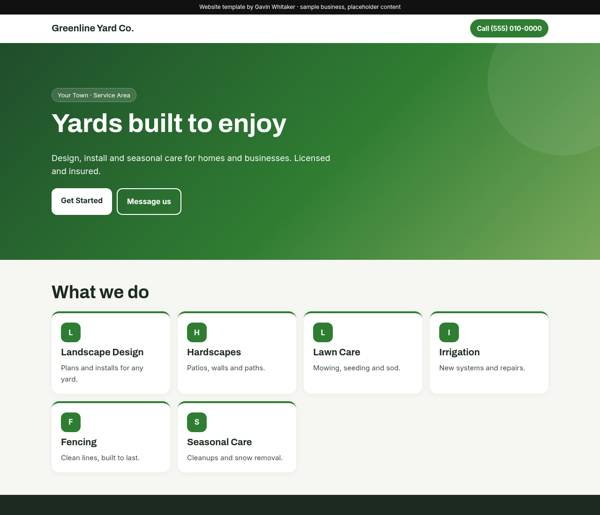
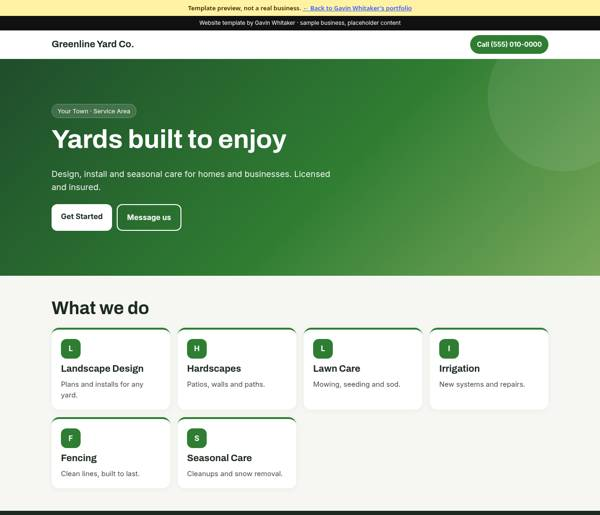
Templates: gallery photos, Google reviews section, new thumbs and descriptions

Changed region(s): [[0.0, 0.4971, 1.0, 0.9942], [0.0, 0.0, 1.0, 0.1243], [0.06, 0.1553, 0.57, 0.466]]

diff --git a/templates.html b/templates.html
@@ -3,15 +3,15 @@
 <header class="hero" style="padding-bottom:60px"><div class="wrap"><nav><a href="index.html" style="text-decoration:none"><strong class="wordmark">Gavin Whitaker<span>.</span></strong></a><div class="links"><a href="index.html#clients">Work</a><a href="templates.html">Templates</a><a href="index.html#process">Process</a><a href="index.html#contact">Contact</a></div></nav>
 <h1>Pick a starting style</h1><p>These are starting points we'll tailor to your business: your name, photos, services, colors, and wording. Open a live preview, and if one feels right, tap "I like this one" and I'll get back to you with a free quote.</p><span class="badge">Simple sites starting at $500 · Free quote</span></div></header>
 <section><div class="wrap"><div class="chips"><button class="chip on" data-f="all">All</button><button class="chip" data-f="beauty">Beauty</button><button class="chip" data-f="food">Food</button><button class="chip" data-f="retail">Retail</button><button class="chip" data-f="trades">Trades</button></div><div class="grid" id="tgrid"><article class="tcard" data-cat="trades"><a href="templates/greenline-yard-co/index.html" target="_blank" rel="noopener"><img src="templates/greenline-yard-co/thumb.jpg" alt="Greenline Yard Co. template preview" loading="lazy"></a>
-<div class="body"><span class="cat">trades</span><h3>Greenline Yard Co.</h3><p>Fresh green gradient hero, bold Archivo headings, top-bordered service cards, dark trust band and sticky call/text bar.</p>
+<div class="body"><span class="cat">trades</span><h3>Greenline Yard Co.</h3><p>Fresh, outdoorsy and dependable. Suits landscapers, lawn care, fencing and other home-service pros.</p>
 <div class="acts"><a class="btn alt sm" href="templates/greenline-yard-co/index.html" target="_blank" rel="noopener">Live preview ↗</a><a class="btn sm" href="mailto:gavin.r.whitaker@gmail.com?subject=I%20like%20the%20Greenline%20Yard%20Co.%20template">I like this one</a></div></div></article><article class="tcard" data-cat="trades"><a href="templates/ironbridge-auto-works/index.html" target="_blank" rel="noopener"><img src="templates/ironbridge-auto-works/thumb.jpg" alt="Ironbridge Auto Works template preview" loading="lazy"></a>
-<div class="body"><span class="cat">trades</span><h3>Ironbridge Auto Works</h3><p>Dark slate-to-crimson hero, condensed Oswald type, amber accents and high-contrast cards built for quick call-to-book.</p>
+<div class="body"><span class="cat">trades</span><h3>Ironbridge Auto Works</h3><p>Bold, dark and no-nonsense. Suits auto repair shops, mechanics and other service businesses that want the phone to ring.</p>
 <div class="acts"><a class="btn alt sm" href="templates/ironbridge-auto-works/index.html" target="_blank" rel="noopener">Live preview ↗</a><a class="btn sm" href="mailto:gavin.r.whitaker@gmail.com?subject=I%20like%20the%20Ironbridge%20Auto%20Works%20template">I like this one</a></div></div></article><article class="tcard" data-cat="food"><a href="templates/hearth-and-bean/index.html" target="_blank" rel="noopener"><img src="templates/hearth-and-bean/thumb.jpg" alt="Hearth &amp; Bean Coffee template preview" loading="lazy"></a>
-<div class="body"><span class="cat">food</span><h3>Hearth &amp; Bean Coffee</h3><p>Warm espresso-brown gradient, soft Fraunces serif headings on cream, cozy menu cards and an order-ahead button bar.</p>
+<div class="body"><span class="cat">food</span><h3>Hearth &amp; Bean Coffee</h3><p>Warm, cozy and welcoming. Suits coffee shops, cafes, bakeries and small eateries.</p>
 <div class="acts"><a class="btn alt sm" href="templates/hearth-and-bean/index.html" target="_blank" rel="noopener">Live preview ↗</a><a class="btn sm" href="mailto:gavin.r.whitaker@gmail.com?subject=I%20like%20the%20Hearth%20%26%20Bean%20Coffee%20template">I like this one</a></div></div></article><article class="tcard" data-cat="beauty"><a href="templates/velvet-and-vine-salon/index.html" target="_blank" rel="noopener"><img src="templates/velvet-and-vine-salon/thumb.jpg" alt="Velvet &amp; Vine Salon template preview" loading="lazy"></a>
-<div class="body"><span class="cat">beauty</span><h3>Velvet &amp; Vine Salon</h3><p>Rose-to-blush gradient hero, elegant Cormorant Garamond serif, champagne accents and a soft, editorial book-now flow.</p>
+<div class="body"><span class="cat">beauty</span><h3>Velvet &amp; Vine Salon</h3><p>Soft, elegant and polished. Suits hair salons, nail and beauty studios, spas and aestheticians.</p>
 <div class="acts"><a class="btn alt sm" href="templates/velvet-and-vine-salon/index.html" target="_blank" rel="noopener">Live preview ↗</a><a class="btn sm" href="mailto:gavin.r.whitaker@gmail.com?subject=I%20like%20the%20Velvet%20%26%20Vine%20Salon%20template">I like this one</a></div></div></article><article class="tcard" data-cat="retail"><a href="templates/northpeak-print-supply/index.html" target="_blank" rel="noopener"><img src="templates/northpeak-print-supply/thumb.jpg" alt="Northpeak Print Supply template preview" loading="lazy"></a>
-<div class="body"><span class="cat">retail</span><h3>Northpeak Print Supply</h3><p>Indigo-to-violet gradient, DM Serif Display headings with teal accents, product-style cards and a clean quote-request layout.</p>
+<div class="body"><span class="cat">retail</span><h3>Northpeak Print Supply</h3><p>Modern, colorful and confident. Suits retail shops, custom print and apparel makers, and boutiques.</p>
 <div class="acts"><a class="btn alt sm" href="templates/northpeak-print-supply/index.html" target="_blank" rel="noopener">Live preview ↗</a><a class="btn sm" href="mailto:gavin.r.whitaker@gmail.com?subject=I%20like%20the%20Northpeak%20Print%20Supply%20template">I like this one</a></div></div></article></div>
 <p class="sub" style="margin-top:30px">All templates use placeholder businesses and content. None of them are real businesses.</p></div></section>
 <footer>Gavin Whitaker · Serving northern Utah &amp; southern Idaho · <a href="index.html">Back to the portfolio</a></footer>

diff --git a/templates/velvet-and-vine-salon/index.html b/templates/velvet-and-vine-salon/index.html
@@ -36,6 +36,11 @@ footer{padding:28px 0;font-size:13px;opacity:.7;text-align:center}
 .sticky{position:fixed;left:0;right:0;bottom:0;display:grid;grid-template-columns:1fr 1fr;gap:8px;padding:10px;background:#fff;box-shadow:0 -4px 16px #0002;z-index:9}
 .sticky a{text-align:center;padding:14px;border-radius:12px;font-weight:700;text-decoration:none;background:var(--acc);color:#fff}.sticky a+a{background:var(--ink)}
 @media(min-width:900px){.sticky{display:none}body{padding-bottom:0}.hero{padding:96px 0}}
+.gal{display:grid;gap:10px;grid-template-columns:repeat(3,1fr)}.gal img{width:100%;aspect-ratio:1;object-fit:cover;border-radius:14px;display:block}
+.revtop{display:flex;align-items:center;gap:14px;margin-bottom:14px}.rbadge{background:#fff;border-radius:14px;padding:12px 16px;box-shadow:0 2px 10px #0000000d;text-align:center}
+.rbadge b{display:block;font-size:13px;letter-spacing:.06em;text-transform:uppercase;opacity:.7}.stars{color:var(--acc2);font-size:20px;letter-spacing:2px}
+.rcard{background:#fff;border-radius:14px;padding:16px 18px;margin-bottom:10px;box-shadow:0 2px 10px #0000000a;border-left:4px solid var(--acc)}
+.rcard .stars{font-size:15px}.rcard p{margin:6px 0 0;font-size:14px;opacity:.6;font-style:italic}
 </style></head>
 <body><div class="gw-note" style="background:#fff3a3;color:#3a2f00;font:600 13px/1.4 system-ui,sans-serif;text-align:center;padding:8px 12px">Template preview, not a real business. <a href="https://gavin-whitaker.github.io/templates.html" style="color:#3b5bfd">← Back to Gavin Whitaker's portfolio</a></div>
 <div class="mock">Website template by Gavin Whitaker &middot; sample business, placeholder content</div>
@@ -44,7 +49,7 @@ footer{padding:28px 0;font-size:13px;opacity:.7;text-align:center}
 <div class="btns"><a class="btn" href="#contact">Get Started</a><a class="btn alt" href="#contact">Message us</a></div></div></div>
 <section><div class="wrap"><h2>What we do</h2><div class="grid"><div class="card"><div class="ic">C</div><h3>Cuts &amp; Styling</h3><p>Precision cuts for every look.</p></div><div class="card"><div class="ic">C</div><h3>Color</h3><p>Balayage, highlights and gloss.</p></div><div class="card"><div class="ic">E</div><h3>Extensions</h3><p>Natural volume and length.</p></div><div class="card"><div class="ic">T</div><h3>Treatments</h3><p>Repair and shine.</p></div><div class="card"><div class="ic">B</div><h3>Brows &amp; Lashes</h3><p>Finishing touches.</p></div><div class="card"><div class="ic">E</div><h3>Events</h3><p>Bridal and special occasions.</p></div></div></div></section>
 <section class="trust"><div class="wrap"><h2>Why customers choose us</h2><ul><li>Online booking</li><li>Experienced stylists</li><li>Premium products</li><li>Gift cards available</li></ul></div></section>
-<section><div class="wrap two"><div><h2>What customers say</h2><div class="ph">PLACEHOLDER &middot; Customer reviews</div></div><div><h2>Gallery</h2><div class="ph">PLACEHOLDER &middot; Photo gallery</div></div></div></section>
+<section><div class="wrap two"><div><h2>What customers say</h2><div class="revtop"><div class="rbadge"><b>Google rating</b><span class="stars">★★★★★</span></div><div>Your Google reviews here</div></div><div class="rcard"><span class="stars">★★★★★</span><p>Your customers’ reviews appear here</p></div><div class="rcard"><span class="stars">★★★★★</span><p>Your customers’ reviews appear here</p></div></div><div><h2>Gallery</h2><div class="gal"><img src="photo-1.jpg" alt="Comfortable backwash chairs with sinks near potted plant placed in contemporary beauty salon with bright illumination and abundance of cosmetology products" loading="lazy"><img src="photo-2.jpg" alt="Flatlay of hairstyling tools including a hairdryer, brush, comb, and scrunchies on white fur" loading="lazy"><img src="photo-3.jpg" alt="Bright and well-equipped hair salon with modern chairs and styling tools" loading="lazy"></div></div></div></section>
 <section id="contact"><div class="wrap two contact"><div><h2>Visit or call</h2><p>123 Main Street, Your Town</p><p><a href="#contact">(555) 010-0000</a><br><a href="#contact">hello@example.com</a></p><p class="area">Service area: list the towns you serve here.</p></div><div><h2>Hours</h2><table><tr><td>Monday – Friday</td><td>9:00am – 5:00pm</td></tr><tr><td>Saturday</td><td>10:00am – 2:00pm</td></tr></table></div></div></section>
 <footer>&copy; Velvet &amp; Vine Salon &middot; Sample template<br>Concept designed by Gavin Whitaker &middot; <a href="mailto:gavin.r.whitaker@gmail.com">gavin.r.whitaker@gmail.com</a> &middot; <a href="https://gavin-whitaker.github.io">Portfolio</a></footer>
 <div class="sticky"><a href="#contact">Call</a><a href="#contact">Message</a></div>

diff --git a/templates/greenline-yard-co/index.html b/templates/greenline-yard-co/index.html
@@ -36,6 +36,11 @@ footer{padding:28px 0;font-size:13px;opacity:.7;text-align:center}
 .sticky{position:fixed;left:0;right:0;bottom:0;display:grid;grid-template-columns:1fr 1fr;gap:8px;padding:10px;background:#fff;box-shadow:0 -4px 16px #0002;z-index:9}
 .sticky a{text-align:center;padding:14px;border-radius:12px;font-weight:700;text-decoration:none;background:var(--acc);color:#fff}.sticky a+a{background:var(--ink)}
 @media(min-width:900px){.sticky{display:none}body{padding-bottom:0}.hero{padding:96px 0}}
+.gal{display:grid;gap:10px;grid-template-columns:repeat(3,1fr)}.gal img{width:100%;aspect-ratio:1;object-fit:cover;border-radius:14px;display:block}
+.revtop{display:flex;align-items:center;gap:14px;margin-bottom:14px}.rbadge{background:#fff;border-radius:14px;padding:12px 16px;box-shadow:0 2px 10px #0000000d;text-align:center}
+.rbadge b{display:block;font-size:13px;letter-spacing:.06em;text-transform:uppercase;opacity:.7}.stars{color:var(--acc2);font-size:20px;letter-spacing:2px}
+.rcard{background:#fff;border-radius:14px;padding:16px 18px;margin-bottom:10px;box-shadow:0 2px 10px #0000000a;border-left:4px solid var(--acc)}
+.rcard .stars{font-size:15px}.rcard p{margin:6px 0 0;font-size:14px;opacity:.6;font-style:italic}
 </style></head>
 <body><div class="gw-note" style="background:#fff3a3;color:#3a2f00;font:600 13px/1.4 system-ui,sans-serif;text-align:center;padding:8px 12px">Template preview, not a real business. <a href="https://gavin-whitaker.github.io/templates.html" style="color:#3b5bfd">← Back to Gavin Whitaker's portfolio</a></div>
 <div class="mock">Website template by Gavin Whitaker &middot; sample business, placeholder content</div>
@@ -44,7 +49,7 @@ footer{padding:28px 0;font-size:13px;opacity:.7;text-align:center}
 <div class="btns"><a class="btn" href="#contact">Get Started</a><a class="btn alt" href="#contact">Message us</a></div></div></div>
 <section><div class="wrap"><h2>What we do</h2><div class="grid"><div class="card"><div class="ic">L</div><h3>Landscape Design</h3><p>Plans and installs for any yard.</p></div><div class="card"><div class="ic">H</div><h3>Hardscapes</h3><p>Patios, walls and paths.</p></div><div class="card"><div class="ic">L</div><h3>Lawn Care</h3><p>Mowing, seeding and sod.</p></div><div class="card"><div class="ic">I</div><h3>Irrigation</h3><p>New systems and repairs.</p></div><div class="card"><div class="ic">F</div><h3>Fencing</h3><p>Clean lines, built to last.</p></div><div class="card"><div class="ic">S</div><h3>Seasonal Care</h3><p>Cleanups and snow removal.</p></div></div></div></section>
 <section class="trust"><div class="wrap"><h2>Why customers choose us</h2><ul><li>Licensed &amp; insured</li><li>Residential &amp; commercial</li><li>Free written quotes</li><li>Satisfaction guaranteed</li></ul></div></section>
-<section><div class="wrap two"><div><h2>What customers say</h2><div class="ph">PLACEHOLDER &middot; Customer reviews</div></div><div><h2>Gallery</h2><div class="ph">PLACEHOLDER &middot; Photo gallery</div></div></div></section>
+<section><div class="wrap two"><div><h2>What customers say</h2><div class="revtop"><div class="rbadge"><b>Google rating</b><span class="stars">★★★★★</span></div><div>Your Google reviews here</div></div><div class="rcard"><span class="stars">★★★★★</span><p>Your customers’ reviews appear here</p></div><div class="rcard"><span class="stars">★★★★★</span><p>Your customers’ reviews appear here</p></div></div><div><h2>Gallery</h2><div class="gal"><img src="photo-1.jpg" alt="Stylish modern house exterior with a lush green yard and outdoor seating area" loading="lazy"><img src="photo-2.jpg" alt="Close-up of a garden sprinkler watering a lush green lawn with sunlight creating sparkling water droplets" loading="lazy"><img src="photo-3.jpg" alt="Close-up view of interlocking concrete pavement blocks with grass growing between them, Fès, Morocco" loading="lazy"></div></div></div></section>
 <section id="contact"><div class="wrap two contact"><div><h2>Visit or call</h2><p>123 Main Street, Your Town</p><p><a href="#contact">(555) 010-0000</a><br><a href="#contact">hello@example.com</a></p><p class="area">Service area: list the towns you serve here.</p></div><div><h2>Hours</h2><table><tr><td>Monday – Friday</td><td>9:00am – 5:00pm</td></tr><tr><td>Saturday</td><td>10:00am – 2:00pm</td></tr></table></div></div></section>
 <footer>&copy; Greenline Yard Co. &middot; Sample template<br>Concept designed by Gavin Whitaker &middot; <a href="mailto:gavin.r.whitaker@gmail.com">gavin.r.whitaker@gmail.com</a> &middot; <a href="https://gavin-whitaker.github.io">Portfolio</a></footer>
 <div class="sticky"><a href="#contact">Call</a><a href="#contact">Message</a></div>

diff --git a/templates/ironbridge-auto-works/index.html b/templates/ironbridge-auto-works/index.html
@@ -36,6 +36,11 @@ footer{padding:28px 0;font-size:13px;opacity:.7;text-align:center}
 .sticky{position:fixed;left:0;right:0;bottom:0;display:grid;grid-template-columns:1fr 1fr;gap:8px;padding:10px;background:#fff;box-shadow:0 -4px 16px #0002;z-index:9}
 .sticky a{text-align:center;padding:14px;border-radius:12px;font-weight:700;text-decoration:none;background:var(--acc);color:#fff}.sticky a+a{background:var(--ink)}
 @media(min-width:900px){.sticky{display:none}body{padding-bottom:0}.hero{padding:96px 0}}
+.gal{display:grid;gap:10px;grid-template-columns:repeat(3,1fr)}.gal img{width:100%;aspect-ratio:1;object-fit:cover;border-radius:14px;display:block}
+.revtop{display:flex;align-items:center;gap:14px;margin-bottom:14px}.rbadge{background:#fff;border-radius:14px;padding:12px 16px;box-shadow:0 2px 10px #0000000d;text-align:center}
+.rbadge b{display:block;font-size:13px;letter-spacing:.06em;text-transform:uppercase;opacity:.7}.stars{color:var(--acc2);font-size:20px;letter-spacing:2px}
+.rcard{background:#fff;border-radius:14px;padding:16px 18px;margin-bottom:10px;box-shadow:0 2px 10px #0000000a;border-left:4px solid var(--acc)}
+.rcard .stars{font-size:15px}.rcard p{margin:6px 0 0;font-size:14px;opacity:.6;font-style:italic}
 </style></head>
 <body><div class="gw-note" style="background:#fff3a3;color:#3a2f00;font:600 13px/1.4 system-ui,sans-serif;text-align:center;padding:8px 12px">Template preview, not a real business. <a href="https://gavin-whitaker.github.io/templates.html" style="color:#3b5bfd">← Back to Gavin Whitaker's portfolio</a></div>
 <div class="mock">Website template by Gavin Whitaker &middot; sample business, placeholder content</div>
@@ -44,7 +49,7 @@ footer{padding:28px 0;font-size:13px;opacity:.7;text-align:center}
 <div class="btns"><a class="btn" href="#contact">Get Started</a><a class="btn alt" href="#contact">Message us</a></div></div></div>
 <section><div class="wrap"><h2>What we do</h2><div class="grid"><div class="card"><div class="ic">D</div><h3>Diagnostics</h3><p>Find the problem fast.</p></div><div class="card"><div class="ic">B</div><h3>Brakes</h3><p>Pads, rotors and fluid.</p></div><div class="card"><div class="ic">O</div><h3>Oil &amp; Maintenance</h3><p>Keep it running smooth.</p></div><div class="card"><div class="ic">E</div><h3>Engine Repair</h3><p>From tune-ups to rebuilds.</p></div><div class="card"><div class="ic">S</div><h3>Suspension</h3><p>Smooth, safe handling.</p></div><div class="card"><div class="ic">A</div><h3>A/C &amp; Heating</h3><p>Comfort in every season.</p></div></div></div></section>
 <section class="trust"><div class="wrap"><h2>Why customers choose us</h2><ul><li>Upfront estimates</li><li>Warranty on parts &amp; labor</li><li>All makes &amp; models</li><li>Same-day service when possible</li></ul></div></section>
-<section><div class="wrap two"><div><h2>What customers say</h2><div class="ph">PLACEHOLDER &middot; Customer reviews</div></div><div><h2>Gallery</h2><div class="ph">PLACEHOLDER &middot; Photo gallery</div></div></div></section>
+<section><div class="wrap two"><div><h2>What customers say</h2><div class="revtop"><div class="rbadge"><b>Google rating</b><span class="stars">★★★★★</span></div><div>Your Google reviews here</div></div><div class="rcard"><span class="stars">★★★★★</span><p>Your customers’ reviews appear here</p></div><div class="rcard"><span class="stars">★★★★★</span><p>Your customers’ reviews appear here</p></div></div><div><h2>Gallery</h2><div class="gal"><img src="photo-1.jpg" alt="A neatly arranged set of automotive tools hanging on a workshop pegboard, emphasizing organization and efficiency" loading="lazy"><img src="photo-2.jpg" alt="Steel automobile disk brake without wheel for car service and repair concept" loading="lazy"><img src="photo-3.jpg" alt="Detailed view of car engine components with focus on parts and machinery" loading="lazy"></div></div></div></section>
 <section id="contact"><div class="wrap two contact"><div><h2>Visit or call</h2><p>123 Main Street, Your Town</p><p><a href="#contact">(555) 010-0000</a><br><a href="#contact">hello@example.com</a></p><p class="area">Service area: list the towns you serve here.</p></div><div><h2>Hours</h2><table><tr><td>Monday – Friday</td><td>9:00am – 5:00pm</td></tr><tr><td>Saturday</td><td>10:00am – 2:00pm</td></tr></table></div></div></section>
 <footer>&copy; Ironbridge Auto Works &middot; Sample template<br>Concept designed by Gavin Whitaker &middot; <a href="mailto:gavin.r.whitaker@gmail.com">gavin.r.whitaker@gmail.com</a> &middot; <a href="https://gavin-whitaker.github.io">Portfolio</a></footer>
 <div class="sticky"><a href="#contact">Call</a><a href="#contact">Message</a></div>

diff --git a/templates/hearth-and-bean/index.html b/templates/hearth-and-bean/index.html
@@ -36,6 +36,11 @@ footer{padding:28px 0;font-size:13px;opacity:.7;text-align:center}
 .sticky{position:fixed;left:0;right:0;bottom:0;display:grid;grid-template-columns:1fr 1fr;gap:8px;padding:10px;background:#fff;box-shadow:0 -4px 16px #0002;z-index:9}
 .sticky a{text-align:center;padding:14px;border-radius:12px;font-weight:700;text-decoration:none;background:var(--acc);color:#fff}.sticky a+a{background:var(--ink)}
 @media(min-width:900px){.sticky{display:none}body{padding-bottom:0}.hero{padding:96px 0}}
+.gal{display:grid;gap:10px;grid-template-columns:repeat(3,1fr)}.gal img{width:100%;aspect-ratio:1;object-fit:cover;border-radius:14px;display:block}
+.revtop{display:flex;align-items:center;gap:14px;margin-bottom:14px}.rbadge{background:#fff;border-radius:14px;padding:12px 16px;box-shadow:0 2px 10px #0000000d;text-align:center}
+.rbadge b{display:block;font-size:13px;letter-spacing:.06em;text-transform:uppercase;opacity:.7}.stars{color:var(--acc2);font-size:20px;letter-spacing:2px}
+.rcard{background:#fff;border-radius:14px;padding:16px 18px;margin-bottom:10px;box-shadow:0 2px 10px #0000000a;border-left:4px solid var(--acc)}
+.rcard .stars{font-size:15px}.rcard p{margin:6px 0 0;font-size:14px;opacity:.6;font-style:italic}
 </style></head>
 <body><div class="gw-note" style="background:#fff3a3;color:#3a2f00;font:600 13px/1.4 system-ui,sans-serif;text-align:center;padding:8px 12px">Template preview, not a real business. <a href="https://gavin-whitaker.github.io/templates.html" style="color:#3b5bfd">← Back to Gavin Whitaker's portfolio</a></div>
 <div class="mock">Website template by Gavin Whitaker &middot; sample business, placeholder content</div>
@@ -44,7 +49,7 @@ footer{padding:28px 0;font-size:13px;opacity:.7;text-align:center}
 <div class="btns"><a class="btn" href="#contact">Get Started</a><a class="btn alt" href="#contact">Message us</a></div></div></div>
 <section><div class="wrap"><h2>What we do</h2><div class="grid"><div class="card"><div class="ic">E</div><h3>Espresso Bar</h3><p>Lattes, mochas and more.</p></div><div class="card"><div class="ic">D</div><h3>Drip &amp; Cold Brew</h3><p>Brewed fresh all day.</p></div><div class="card"><div class="ic">T</div><h3>Tea &amp; Chai</h3><p>Hot or iced.</p></div><div class="card"><div class="ic">P</div><h3>Pastries</h3><p>Baked fresh each morning.</p></div><div class="card"><div class="ic">B</div><h3>Breakfast</h3><p>Quick bites to go.</p></div><div class="card"><div class="ic">C</div><h3>Catering</h3><p>Coffee for your next event.</p></div></div></div></section>
 <section class="trust"><div class="wrap"><h2>Why customers choose us</h2><ul><li>Locally roasted beans</li><li>Free Wi-Fi</li><li>Order-ahead pickup</li><li>Dairy-free options</li></ul></div></section>
-<section><div class="wrap two"><div><h2>What customers say</h2><div class="ph">PLACEHOLDER &middot; Customer reviews</div></div><div><h2>Gallery</h2><div class="ph">PLACEHOLDER &middot; Photo gallery</div></div></div></section>
+<section><div class="wrap two"><div><h2>What customers say</h2><div class="revtop"><div class="rbadge"><b>Google rating</b><span class="stars">★★★★★</span></div><div>Your Google reviews here</div></div><div class="rcard"><span class="stars">★★★★★</span><p>Your customers’ reviews appear here</p></div><div class="rcard"><span class="stars">★★★★★</span><p>Your customers’ reviews appear here</p></div></div><div><h2>Gallery</h2><div class="gal"><img src="photo-1.jpg" alt="A beautifully crafted cappuccino with intricate latte art, viewed from above on a wooden table" loading="lazy"><img src="photo-2.jpg" alt="A close-up of roasted coffee beans scattered on a dark surface, highlighting their rich texture and color" loading="lazy"><img src="photo-3.jpg" alt="Delicious assortment of croissants, muffins, and pastries in a bakery display case" loading="lazy"></div></div></div></section>
 <section id="contact"><div class="wrap two contact"><div><h2>Visit or call</h2><p>123 Main Street, Your Town</p><p><a href="#contact">(555) 010-0000</a><br><a href="#contact">hello@example.com</a></p><p class="area">Service area: list the towns you serve here.</p></div><div><h2>Hours</h2><table><tr><td>Monday – Friday</td><td>9:00am – 5:00pm</td></tr><tr><td>Saturday</td><td>10:00am – 2:00pm</td></tr></table></div></div></section>
 <footer>&copy; Hearth &amp; Bean Coffee &middot; Sample template<br>Concept designed by Gavin Whitaker &middot; <a href="mailto:gavin.r.whitaker@gmail.com">gavin.r.whitaker@gmail.com</a> &middot; <a href="https://gavin-whitaker.github.io">Portfolio</a></footer>
 <div class="sticky"><a href="#contact">Call</a><a href="#contact">Message</a></div>

diff --git a/templates/northpeak-print-supply/index.html b/templates/northpeak-print-supply/index.html
@@ -36,6 +36,11 @@ footer{padding:28px 0;font-size:13px;opacity:.7;text-align:center}
 .sticky{position:fixed;left:0;right:0;bottom:0;display:grid;grid-template-columns:1fr 1fr;gap:8px;padding:10px;background:#fff;box-shadow:0 -4px 16px #0002;z-index:9}
 .sticky a{text-align:center;padding:14px;border-radius:12px;font-weight:700;text-decoration:none;background:var(--acc);color:#fff}.sticky a+a{background:var(--ink)}
 @media(min-width:900px){.sticky{display:none}body{padding-bottom:0}.hero{padding:96px 0}}
+.gal{display:grid;gap:10px;grid-template-columns:repeat(3,1fr)}.gal img{width:100%;aspect-ratio:1;object-fit:cover;border-radius:14px;display:block}
+.revtop{display:flex;align-items:center;gap:14px;margin-bottom:14px}.rbadge{background:#fff;border-radius:14px;padding:12px 16px;box-shadow:0 2px 10px #0000000d;text-align:center}
+.rbadge b{display:block;font-size:13px;letter-spacing:.06em;text-transform:uppercase;opacity:.7}.stars{color:var(--acc2);font-size:20px;letter-spacing:2px}
+.rcard{background:#fff;border-radius:14px;padding:16px 18px;margin-bottom:10px;box-shadow:0 2px 10px #0000000a;border-left:4px solid var(--acc)}
+.rcard .stars{font-size:15px}.rcard p{margin:6px 0 0;font-size:14px;opacity:.6;font-style:italic}
 </style></head>
 <body><div class="gw-note" style="background:#fff3a3;color:#3a2f00;font:600 13px/1.4 system-ui,sans-serif;text-align:center;padding:8px 12px">Template preview, not a real business. <a href="https://gavin-whitaker.github.io/templates.html" style="color:#3b5bfd">← Back to Gavin Whitaker's portfolio</a></div>
 <div class="mock">Website template by Gavin Whitaker &middot; sample business, placeholder content</div>
@@ -44,7 +49,7 @@ footer{padding:28px 0;font-size:13px;opacity:.7;text-align:center}
 <div class="btns"><a class="btn" href="#contact">Get Started</a><a class="btn alt" href="#contact">Message us</a></div></div></div>
 <section><div class="wrap"><h2>What we do</h2><div class="grid"><div class="card"><div class="ic">S</div><h3>Screen Printing</h3><p>Bold prints in bulk.</p></div><div class="card"><div class="ic">E</div><h3>Embroidery</h3><p>Polished logos on hats and polos.</p></div><div class="card"><div class="ic">T</div><h3>Team Apparel</h3><p>Uniforms and fan gear.</p></div><div class="card"><div class="ic">P</div><h3>Promo Products</h3><p>Mugs, bags and more.</p></div><div class="card"><div class="ic">D</div><h3>Design Help</h3><p>Artwork from idea to proof.</p></div><div class="card"><div class="ic">R</div><h3>Rush Orders</h3><p>Fast turnaround when you need it.</p></div></div></div></section>
 <section class="trust"><div class="wrap"><h2>Why customers choose us</h2><ul><li>No-minimum options</li><li>Free design proofs</li><li>Bulk pricing</li><li>Quality guaranteed</li></ul></div></section>
-<section><div class="wrap two"><div><h2>What customers say</h2><div class="ph">PLACEHOLDER &middot; Customer reviews</div></div><div><h2>Gallery</h2><div class="ph">PLACEHOLDER &middot; Photo gallery</div></div></div></section>
+<section><div class="wrap two"><div><h2>What customers say</h2><div class="revtop"><div class="rbadge"><b>Google rating</b><span class="stars">★★★★★</span></div><div>Your Google reviews here</div></div><div class="rcard"><span class="stars">★★★★★</span><p>Your customers’ reviews appear here</p></div><div class="rcard"><span class="stars">★★★★★</span><p>Your customers’ reviews appear here</p></div></div><div><h2>Gallery</h2><div class="gal"><img src="photo-1.jpg" alt="Detailed view of a screen printing setup with a wooden squeegee in Luzern, Switzerland" loading="lazy"><img src="photo-2.jpg" alt="Two folded t-shirts in black and mint with cotton flowers on light background" loading="lazy"><img src="photo-3.jpg" alt="Detailed view of embroidery machines used in a textile workshop in Apucarana, Brazil" loading="lazy"></div></div></div></section>
 <section id="contact"><div class="wrap two contact"><div><h2>Visit or call</h2><p>123 Main Street, Your Town</p><p><a href="#contact">(555) 010-0000</a><br><a href="#contact">hello@example.com</a></p><p class="area">Service area: list the towns you serve here.</p></div><div><h2>Hours</h2><table><tr><td>Monday – Friday</td><td>9:00am – 5:00pm</td></tr><tr><td>Saturday</td><td>10:00am – 2:00pm</td></tr></table></div></div></section>
 <footer>&copy; Northpeak Print Supply &middot; Sample template<br>Concept designed by Gavin Whitaker &middot; <a href="mailto:gavin.r.whitaker@gmail.com">gavin.r.whitaker@gmail.com</a> &middot; <a href="https://gavin-whitaker.github.io">Portfolio</a></footer>
 <div class="sticky"><a href="#contact">Call</a><a href="#contact">Message</a></div>

diff --git a/templates/northpeak-print-supply/CREDITS.md b/templates/northpeak-print-supply/CREDITS.md
@@ -1,0 +1,8 @@
+# Photo credits
+
+All photos from Pexels, free to use under the Pexels License (https://www.pexels.com/license/). Resized/compressed for web.
+
+- `photo-1.jpg`: "A Wood Plank Clamped on a Steel Equipment" by @wendelinjacober (https://www.pexels.com/@wendelinjacober/) on Pexels. Source: https://www.pexels.com/photo/a-wood-plank-clamped-on-a-steel-equipment-1509308/
+- `photo-2.jpg`: "Minimalist Flat Lay of Cotton T-Shirts and Cotton Flowers" by @dayong-tien-681073045 (https://www.pexels.com/@dayong-tien-681073045/) on Pexels. Source: https://www.pexels.com/photo/minimalist-flat-lay-of-cotton-t-shirts-and-cotton-flowers-34156907/
+- `photo-3.jpg`: "Industrial Embroidery Machines in Textile Workshop" by @gaion (https://www.pexels.com/@gaion/) on Pexels. Source: https://www.pexels.com/photo/industrial-embroidery-machines-in-textile-workshop-32641546/
+- Equipment brand logos in photo-3.jpg were blurred.

diff --git a/templates/velvet-and-vine-salon/CREDITS.md b/templates/velvet-and-vine-salon/CREDITS.md
@@ -1,0 +1,7 @@
+# Photo credits
+
+All photos from Pexels, free to use under the Pexels License (https://www.pexels.com/license/). Resized/compressed for web.
+
+- `photo-1.jpg`: "Backwash chairs in modern beauty salon" by @artbovich (https://www.pexels.com/@artbovich/) on Pexels. Source: https://www.pexels.com/photo/backwash-chairs-in-modern-beauty-salon-7195805/
+- `photo-2.jpg`: "Grey Hair Blower Near Pink Hair Combs and Scrunchies" by @element5 (https://www.pexels.com/@element5/) on Pexels. Source: https://www.pexels.com/photo/grey-hair-blower-near-pink-hair-combs-and-scrunchies-973402/
+- `photo-3.jpg`: "Black Leather Barber Chair in Front of Mirror" by @cottonbro (https://www.pexels.com/@cottonbro/) on Pexels. Source: https://www.pexels.com/photo/black-leather-barber-chair-in-front-of-mirror-3993308/

diff --git a/templates/greenline-yard-co/CREDITS.md b/templates/greenline-yard-co/CREDITS.md
@@ -1,0 +1,7 @@
+# Photo credits
+
+All photos from Pexels, free to use under the Pexels License (https://www.pexels.com/license/). Resized/compressed for web.
+
+- `photo-1.jpg`: "Modern House Exterior" by @artbovich (https://www.pexels.com/@artbovich/) on Pexels. Source: https://www.pexels.com/photo/modern-house-exterior-7587880/
+- `photo-2.jpg`: "Garden Sprinkler Watering Lush Green Lawn" by @soc-nang-d-ng-2150345854 (https://www.pexels.com/@soc-nang-d-ng-2150345854/) on Pexels. Source: https://www.pexels.com/photo/garden-sprinkler-watering-lush-green-lawn-37720375/
+- `photo-3.jpg`: "Close-Up of Interlocking Concrete Pavement with Grass" by @mographe (https://www.pexels.com/@mographe/) on Pexels. Source: https://www.pexels.com/photo/close-up-of-interlocking-concrete-pavement-with-grass-36136558/

diff --git a/templates/ironbridge-auto-works/CREDITS.md b/templates/ironbridge-auto-works/CREDITS.md
@@ -1,0 +1,8 @@
+# Photo credits
+
+All photos from Pexels, free to use under the Pexels License (https://www.pexels.com/license/). Resized/compressed for web.
+
+- `photo-1.jpg`: "Red and Silver Hand Tools" by @cottonbro (https://www.pexels.com/@cottonbro/) on Pexels. Source: https://www.pexels.com/photo/red-and-silver-hand-tools-4480466/
+- `photo-2.jpg`: "Disk brake of wheeled vehicle" by @svjae (https://www.pexels.com/@svjae/) on Pexels. Source: https://www.pexels.com/photo/disk-brake-of-wheeled-vehicle-4022543/
+- `photo-3.jpg`: "Engine of a Car" by @giona-mason-1751396 (https://www.pexels.com/@giona-mason-1751396/) on Pexels. Source: https://www.pexels.com/photo/engine-of-a-car-18180575/
+- Equipment brand logos in photo-3.jpg were blurred.

diff --git a/templates/hearth-and-bean/CREDITS.md b/templates/hearth-and-bean/CREDITS.md
@@ -1,0 +1,7 @@
+# Photo credits
+
+All photos from Pexels, free to use under the Pexels License (https://www.pexels.com/license/). Resized/compressed for web.
+
+- `photo-1.jpg`: "With Coffee Art in a Cup" by @alexeydemidov (https://www.pexels.com/@alexeydemidov/) on Pexels. Source: https://www.pexels.com/photo/with-coffee-art-in-a-cup-11385490/
+- `photo-2.jpg`: "Coffee Beans on a Counter Top" by @navidsohrabi (https://www.pexels.com/@navidsohrabi/) on Pexels. Source: https://www.pexels.com/photo/coffee-beans-on-a-counter-top-16682442/
+- `photo-3.jpg`: "Assorted Bakery Pastries on Display" by @dale (https://www.pexels.com/@dale/) on Pexels. Source: https://www.pexels.com/photo/assorted-bakery-pastries-on-display-38583473/
